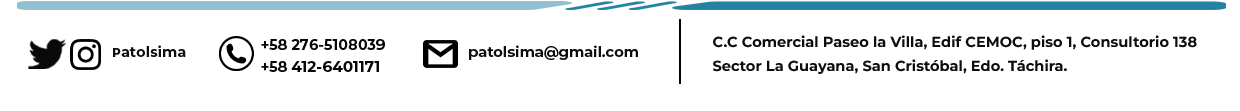
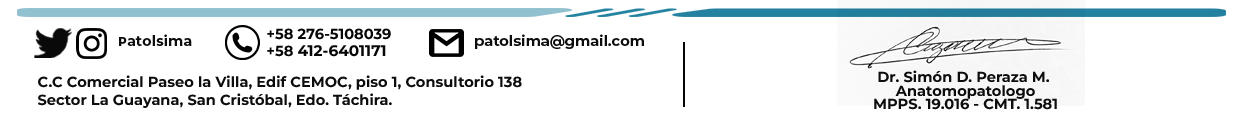
template modificado

diff --git a/patolsima_api/apps/core/utils/pdf_templates/informe_footer.html b/patolsima_api/apps/core/utils/pdf_templates/informe_footer.html
@@ -20,18 +20,18 @@
             right: 0;
         }
         .firma{
-            text-align: left;
+            text-align: right;
         }
     </style>
 </head>
 
 <body>
     <div class="footer">
-        <div class="firma">
+        <!-- <div class="firma">
             <br>
             {% include 'firma_patologo.html' with context %}
             <br>
-        </div>
+        </div> -->
         <div><img src="{{ current_work_path_python }}/patolsima_api/apps/core/utils/pdf_templates/images/Footer.png"
                 alt=""></div>
     </div>

diff --git a/patolsima_api/apps/core/utils/pdf_templates/informe_body.html b/patolsima_api/apps/core/utils/pdf_templates/informe_body.html
@@ -155,7 +155,6 @@
         {% endif %}
 
         <br>
-        <br>
-        {% include 'firma_patologo.html' with context %}
+        
     </body>
 </html>
